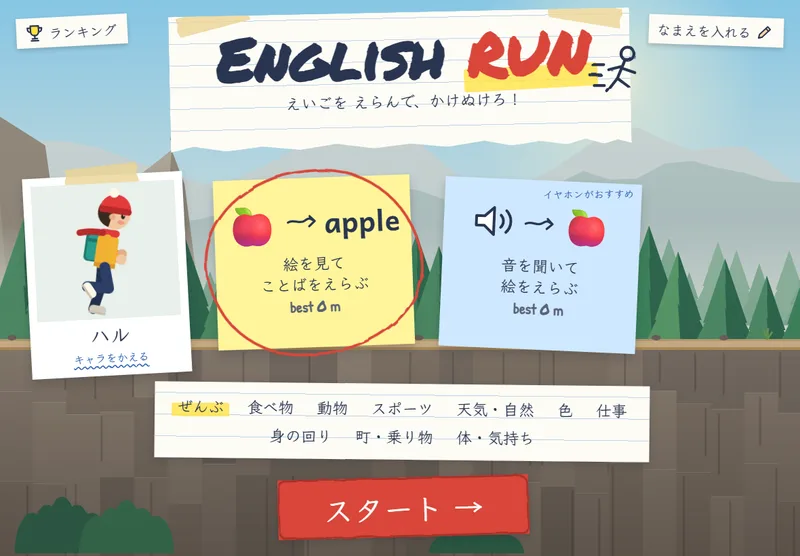
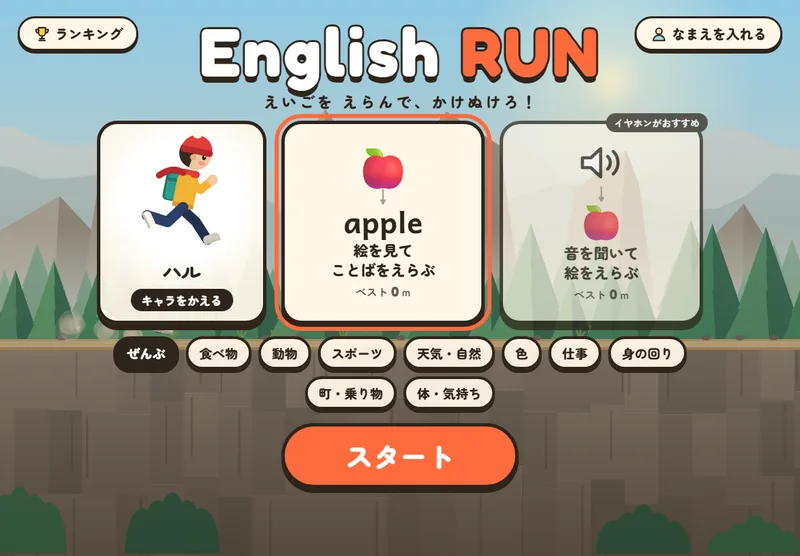
English RUN の画像を元のデザインに

diff --git a/index.html b/index.html
@@ -326,7 +326,7 @@ footer .legend span{display:inline-flex;align-items:center;gap:6px}
     syncFilters(); render();
   }
 
-  fetch("data/kyouzai.json?v=17", { cache: "no-cache" })
+  fetch("data/kyouzai.json?v=18", { cache: "no-cache" })
     .then((r) => r.json())
     .then((data) => {
       items = (data.items || []).map((it, n) => ({ subjects: [], grades: [], ...it, _no: n + 1 }));
